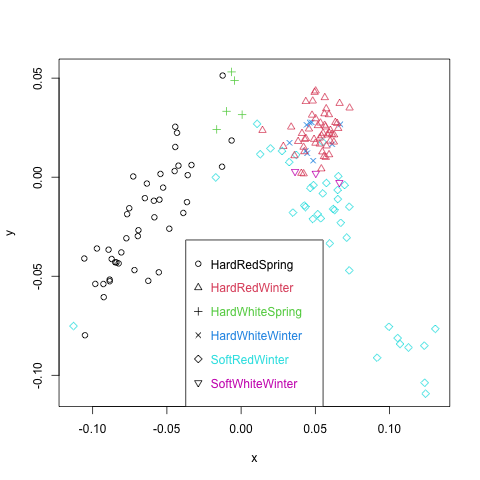
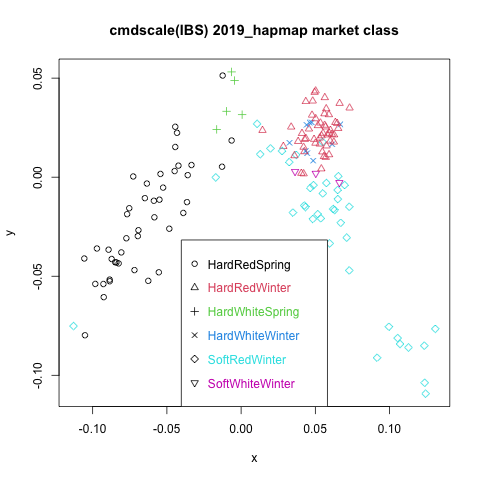
update images

Changed region(s): [[0.375, 0.5, 0.625, 0.8438], [0.2188, 0.0312, 0.8438, 0.0938], [0.6562, 0.5, 0.6875, 0.8438]]

diff --git a/cluster-snprelate/README.md b/cluster-snprelate/README.md
@@ -1,11 +1,11 @@
 <h2>SNPRelate IBS then MDS</h2>
-<li>SNPRelate R package using
+<li>SNPRelate R package
 <li>snpgdsIBS: Identity-By-State (IBS) - calculate the fraction of identity by state for each pair of samples
 <li>cmdscale: Classical Multidementional Scaling, also known as principal coordinates analysis
 <br><br>
 
 <h2>Can market class be used to cluster data?</h2>
-<li>results show different clusters for HardRedWinter, SoftRedWinter, HardRedSpring
+<li>results identiry clusters for HardRedWinter, SoftRedWinter, HardRedSpring
 
 combined PHG472 and 2019_hapmap, both data sets are filtered before merging with maf < 0.5 and missing > 50% removed
 
